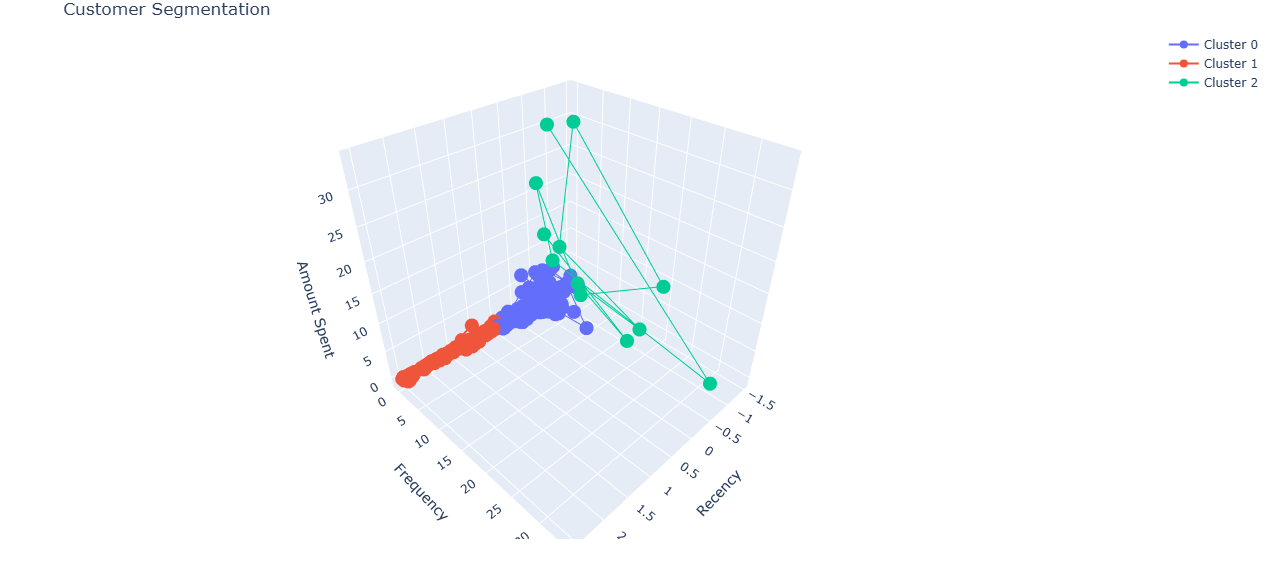
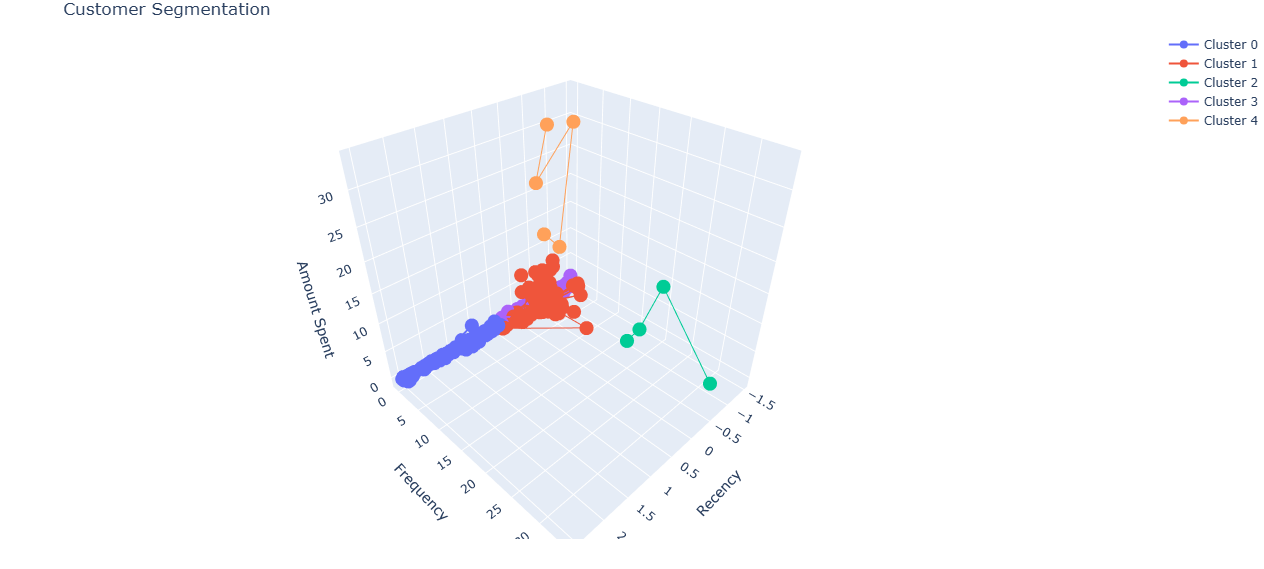
Update image

diff --git a/CustomerSegmentation/main.py b/CustomerSegmentation/main.py
@@ -83,7 +83,7 @@ plot.update_layout(
 plot.show()
 
 # Cluster the data
-k = 3
+k = 5
 finalKMeans = KMeans(n_clusters=k, max_iter = 100, n_init = 10, random_state = 0)
 y_clusters = finalKMeans.fit_predict(x)
 
